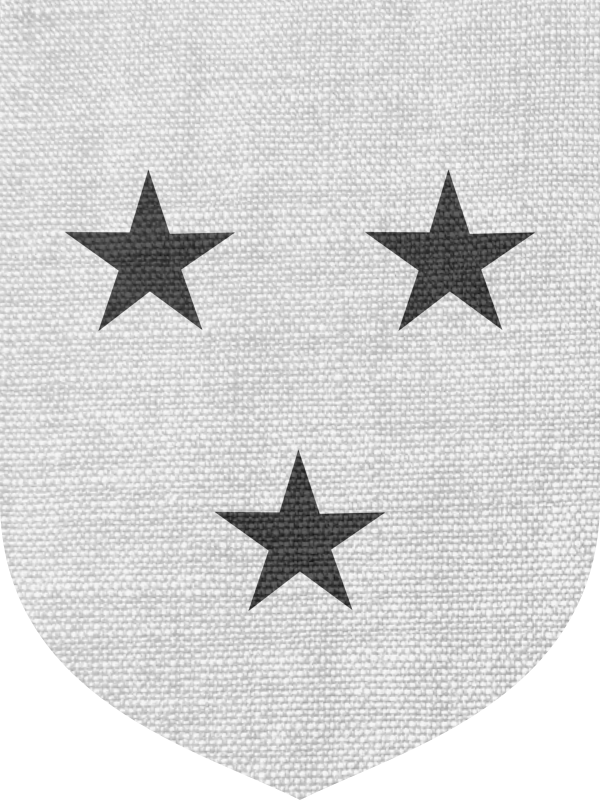
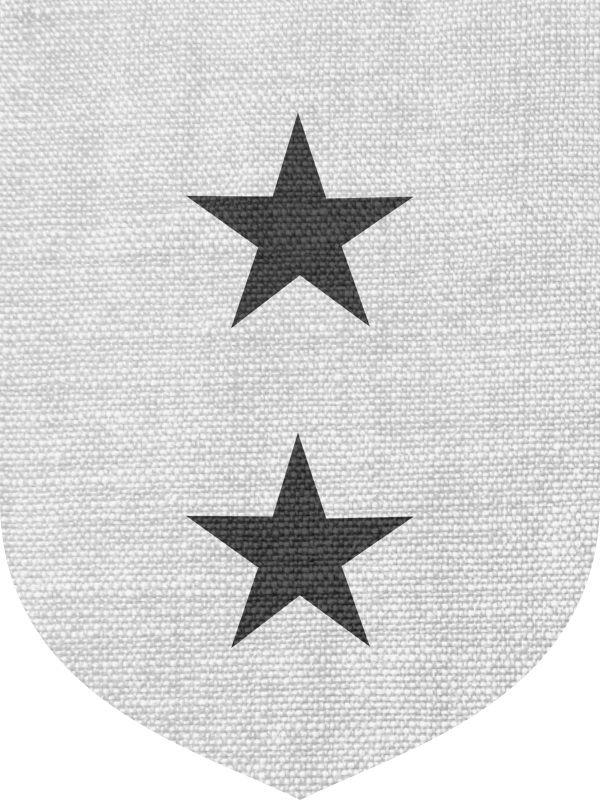
Complete the Language page

Changed region(s): [[0.12, 0.125, 0.9, 0.4062], [0.3, 0.5312, 0.69, 0.8125]]

diff --git a/getting_started/language.html b/getting_started/language.html
@@ -93,19 +93,16 @@
                     are five ways
                     to describe the integer 9.
                 </p>
-                <script id="charge-evaluation-script-1" src="/blazon-docs/logic/charge_calculation.js" async
-                    type="module" data-charge-0="Mullet" data-quantity-0="3" data-charge-1="Caltrap" data-quantity-1="3"
-                    data-charge-2="Octofoil" data-quantity-2="1" data-charge-3="Escutcheon" data-quantity-3="1"
+                <script id="charge-evaluation-script-1" src="/blazon-docs/logic/charge_calculation.js" async type="module" 
+                    data-charge-0="Mullet" data-quantity-0="2"          data-charge-1="Caltrap" data-quantity-1="2"
+                    data-charge-2="Octofoil" data-quantity-2="1"        data-charge-3="Escutcheon" data-quantity-3="1"
                     data-charge-4="Quarterly of Eight" data-quantity-4="9">
                     </script>
                 <p>
                     These are all interchangable and will be treated the same by the interpreter. For example, if you
-                    assign one value
-                    to a variable represented by three mullets, assigning another value to a variable represented by an
-                    octofoil will
-                    overwrite the variable represented by three mullets. Consider making your code more "readable" by
-                    sticking to one
-                    representation, or vary it for aesthetic reasons!
+                    assign one value to a variable represented by three mullets, assigning another value to a variable 
+                    represented by an octofoil will overwrite the variable represented by three mullets. Consider 
+                    making your code more "readable" by sticking to one representation, or vary it for aesthetic reasons!
                 </p>
             </div>
             <div>
@@ -153,7 +150,44 @@
         </div>
         <h3>Syntax</h3>
         <h4>General Patterns</h4>
+        <div class="image-side-by-side">
+            <img src="/blazon-docs/assets/arithmetic/example1.png">
+            <div>
+                <p>
+                    Every division of field will have different syntax. Generally, however, the descriptions of fields in 
+                    blazon proceeds from top to bottom and from left to right. And no matter what, the blazon will always 
+                    begin with a capital letter -- the only one in the blazon -- and end with a period.
+                </p>
+                <p>
+                    Often, field tinctures are specified before all divisions and charges, in a list. The blazon of the 
+                    example to the left begins <span style="font-style: italic;">
+                        <a href="/blazon-docs/logic/arithmetic#variable-and-number">Per pall</a> argent, 
+                    sable, and azure;</span> with descriptions of each charge following the semicolon.
+                </p>
+                <p>
+                    When the field tinctures are specified ahead of time, then descriptions of each division of the field 
+                    follow. In this example these are <span style="font-style: italic;">in chief an anchor, to dexter a 
+                    scallop, to sinister two ships</span>. The exact wording of each changes for different divisions of 
+                    the field so it is important to consult the documentation to make sure you get it right!
+                </p>
+            </div>
+        </div>
         <h4>Charges</h4>
+        <div class="image-side-by-side">
+            <div>
+                <p>
+                    Finally, charges are required of most divisions and supported on all of them. These will generally,
+                    but not always, follow a similar pattern. Examples of how to use each charge, in plural and singular 
+                    forms, are given in the <a href="/blazon-docs/design/charges" target="_blank">big list of charges</a>.
+                </p>
+                <p>
+                    In general, all charges will follow the same pattern:
+                    <br>⮚ The field tincture if not specified ahead of time, followed by a comma.
+                    <br>⮚ The article "a" or a number of charges "one", "two", or "three"
+                    <br>⮚ The name of the charge, pluralized if there are more than one present.
+                </p>
+            </div>
+        </div>
         <div class="next-step-button-wrapper">
             <a href="/blazon-docs/getting_started/demos.html">
                 <div class="next-step-button">

diff --git a/styles/blazon.css b/styles/blazon.css
@@ -360,6 +360,7 @@ h1 a {
     padding: 5px;
     margin-left: 15px;
     width: fit-content;
+    color:#614f42;
 }
 
 .charge-evaluation-table .row {
@@ -368,6 +369,16 @@ h1 a {
 
 .charge-evaluation-table .row.header{
     font-weight: bold;
+}
+
+.charge-evaluation-table a:link, 
+.charge-evaluation-table a:visited {
+    text-decoration: none;
+    color:#614f42;
+}
+
+.charge-evaluation-table a:hover {
+    text-decoration: underline;
 }
 
 .charge-evaluation-table .row .charge{
